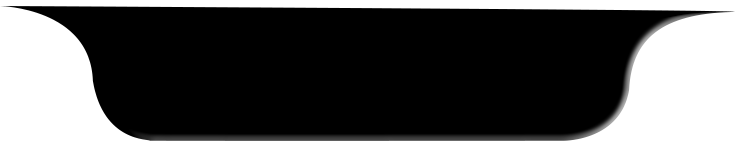
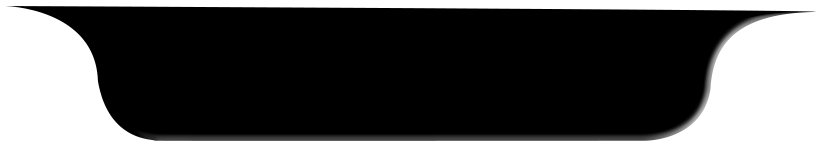
Swap in updated tab art, move Listen Now tab left on desktop
New art replaces the previous frame; text-area insets adjusted for its
slightly different proportions. On desktop the tab now sits at the far
left instead of centered, nudged up into the Now Playing bar. The
wrapper's clip-path pins a hard boundary at its own unshifted top edge
(open on every other side) so the hover glow can never bleed up into the
bar or header above, however far it's nudged.

diff --git a/components/ListenNowTab.jsx b/components/ListenNowTab.jsx
@@ -1,10 +1,10 @@
 /**
  * A small "tab" hanging directly off the bottom of the Now Playing bar,
  * linking to the Apple Music radio station. Centered under the middle of
- * the bar, flush against its own bottom border (no overlap, no gap) so it
- * reads as one continuous piece, and plays a one-shot drop-and-fade
- * entrance (.listen-now-drop, in globals.css) every time this page mounts
- * — i.e. every time you navigate to the home page.
+ * the bar on phones; on desktop it sits at the far left instead, nudged
+ * slightly up into the bar. Plays a one-shot drop-and-fade entrance
+ * (.listen-now-drop, in globals.css) every time this page mounts — i.e.
+ * every time you navigate to the home page.
  *
  * Copy borrows the small/BIG/small hierarchy and bold condensed-caps
  * treatment of Apple Music's own promo graphics (e.g. its Super Bowl
@@ -13,16 +13,20 @@
  * framed by two small connecting words. The frame art (listen-now-frame.png)
  * is already solid black with its own baked-in shadow; a periodic bronze
  * light streak (.tab-bronze-sweep) runs across the whole tab via
- * mix-blend-mode:screen, and the tab glows on hover.
+ * mix-blend-mode:screen, and the tab glows on hover. The outer wrapper's
+ * clip-path pins a hard boundary at its own (unshifted) top edge — open on
+ * every other side — so the hover glow can never bleed up past where the
+ * tab naturally sits, even with the desktop nudge, keeping it off the Now
+ * Playing bar and the header above.
  */
 export default function ListenNowTab() {
   return (
-    <div className="listen-now-drop relative z-10 flex justify-center">
+    <div className="listen-now-drop relative z-10 flex justify-center sm:justify-start sm:pl-6 sm:[clip-path:inset(0_-100vw_-100vw_-100vw)]">
       <a
         href="https://music.apple.com/us/station/green-maizes-station/ra.u-4a3a814146791beb1abb70ff757aa95f"
         target="_blank"
         rel="noopener noreferrer"
-        className="group relative block w-[15.5rem] transition-[filter] duration-300 [filter:drop-shadow(0_0_0_rgba(212,163,74,0))] hover:[filter:drop-shadow(0_0_10px_rgba(212,163,74,0.65))_drop-shadow(0_0_22px_rgba(212,163,74,0.35))] sm:w-[17.5rem]"
+        className="group relative block w-[15.5rem] transition-[filter,transform] duration-300 sm:-translate-y-1.5 [filter:drop-shadow(0_0_0_rgba(212,163,74,0))] hover:[filter:drop-shadow(0_0_10px_rgba(212,163,74,0.65))_drop-shadow(0_0_22px_rgba(212,163,74,0.35))] sm:w-[17.5rem]"
       >
         <span className="tab-bronze-sweep relative block w-full overflow-hidden">
           {/* eslint-disable-next-line @next/next/no-img-element */}
